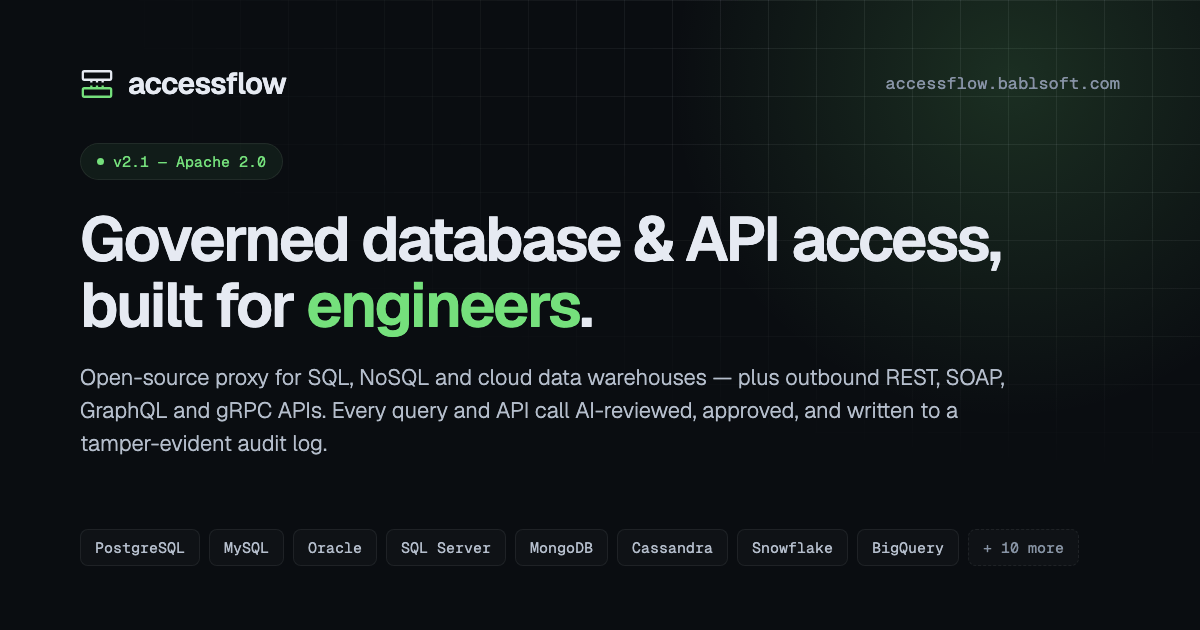
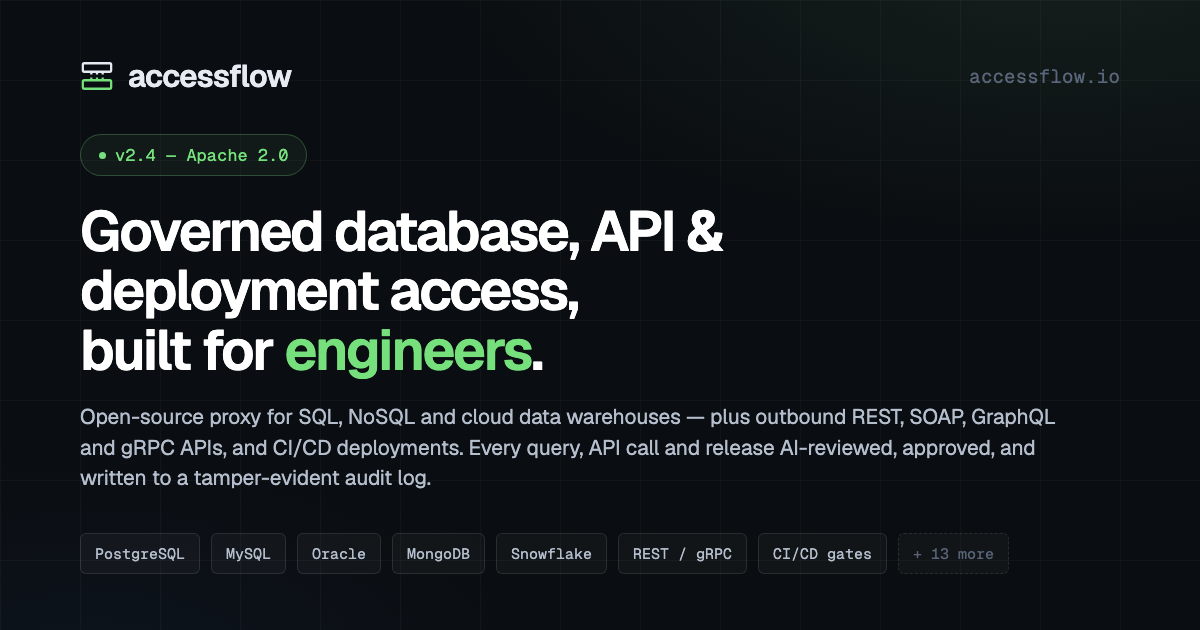
chore: pitch deployment governance as the third governed surface
Deployment Approval Governance (AF-682) shipped complete in v2.4 and
already has a feature card, a roadmap entry and a docs card, but every
top-of-page framing surface still pitched only 'database & API access'.

Hero: h1, subheadline and a new CI/CD row in the meta strip. Page-level
pitch: title, meta description + keywords, OG/Twitter title, description
and image alt, and a JSON-LD featureList entry. llms.txt gains the
capability paragraph and the docs/18 entry. Root README tagline follows.

og-image.png is re-cut per website/README.md: it was three releases stale,
still reading 'v2.1' and 'accessflow.bablsoft.com' after the domain
migration, alongside the old two-surface headline.

Leaves the architecture h2 alone — that section is about the
credential-holding proxy, and the deployment gate is not one. Also folds
in two adjacent drift fixes on lines already being edited: the hero engine
strip was missing ClickHouse (17 listed against 18 connector cards), and
the docs heading said seventeen chapters against 18 doc cards.

diff --git a/website/index.html b/website/index.html
@@ -3,13 +3,13 @@
 <head>
   <meta charset="utf-8" />
   <meta name="viewport" content="width=device-width, initial-scale=1" />
-  <title>AccessFlow — Open-source database &amp; API access governance</title>
-  <meta name="description" content="Open-source database &amp; API access governance. Every query and API call goes through AI review, approval workflows, and a tamper-evident audit log. Apache 2.0." />
+  <title>AccessFlow — Open-source database, API &amp; deployment access governance</title>
+  <meta name="description" content="Open-source database, API &amp; deployment access governance. Every query, API call and CI/CD release goes through AI review, approval workflows, and a tamper-evident audit log. Apache 2.0." />
 
   <link rel="canonical" href="https://accessflow.io/" />
   <meta name="robots" content="index, follow" />
   <meta name="author" content="bablsoft" />
-  <meta name="keywords" content="database access governance, API access governance, SQL and NoSQL proxy, REST SOAP GraphQL gRPC proxy, query approval workflow, API call approval workflow, tamper-evident audit log, open source, PostgreSQL, MySQL, MariaDB, Oracle, SQL Server, ClickHouse, MongoDB, Couchbase, Redis, Cassandra, ScyllaDB, Elasticsearch, OpenSearch, Neo4j, DynamoDB, Snowflake, BigQuery, Databricks, AI query review, Apache 2.0" />
+  <meta name="keywords" content="database access governance, API access governance, SQL and NoSQL proxy, REST SOAP GraphQL gRPC proxy, query approval workflow, API call approval workflow, deployment approval governance, CI/CD deployment gate, deployment freeze window, tamper-evident audit log, open source, PostgreSQL, MySQL, MariaDB, Oracle, SQL Server, ClickHouse, MongoDB, Couchbase, Redis, Cassandra, ScyllaDB, Elasticsearch, OpenSearch, Neo4j, DynamoDB, Snowflake, BigQuery, Databricks, AI query review, Apache 2.0" />
   <meta name="theme-color" content="#0A0D11" />
   <meta name="color-scheme" content="dark light" />
 
@@ -28,20 +28,20 @@
   <meta property="og:type" content="website" />
   <meta property="og:site_name" content="AccessFlow" />
   <meta property="og:locale" content="en_US" />
-  <meta property="og:title" content="AccessFlow — Open-source database &amp; API access governance" />
-  <meta property="og:description" content="Open-source access proxy for SQL and NoSQL databases and cloud data warehouses — Postgres, MySQL, Oracle, SQL Server, MongoDB, Cassandra, Elasticsearch, Neo4j, Snowflake, BigQuery, Databricks, and more — plus outbound REST, SOAP, GraphQL, and gRPC APIs. AI-reviewed queries and API calls, configurable approval workflows, tamper-evident audit log — Apache 2.0." />
+  <meta property="og:title" content="AccessFlow — Open-source database, API &amp; deployment access governance" />
+  <meta property="og:description" content="Open-source access proxy for SQL and NoSQL databases and cloud data warehouses — Postgres, MySQL, Oracle, SQL Server, MongoDB, Cassandra, Elasticsearch, Neo4j, Snowflake, BigQuery, Databricks, and more — plus outbound REST, SOAP, GraphQL, and gRPC APIs, and CI/CD deployments. AI-reviewed queries, API calls and releases, configurable approval workflows, tamper-evident audit log — Apache 2.0." />
   <meta property="og:url" content="https://accessflow.io/" />
   <meta property="og:image" content="https://accessflow.io/og-image.png" />
   <meta property="og:image:type" content="image/png" />
   <meta property="og:image:width" content="1200" />
   <meta property="og:image:height" content="630" />
-  <meta property="og:image:alt" content="AccessFlow — governed database &amp; API access, built for engineers. Open-source SQL, NoSQL &amp; API proxy with AI review and approval workflows." />
+  <meta property="og:image:alt" content="AccessFlow — governed database, API &amp; deployment access, built for engineers. Open-source SQL, NoSQL &amp; API proxy with AI review and approval workflows." />
 
   <meta name="twitter:card" content="summary_large_image" />
-  <meta name="twitter:title" content="AccessFlow — Open-source database &amp; API access governance" />
-  <meta name="twitter:description" content="Open-source access proxy for SQL and NoSQL databases and cloud data warehouses — Postgres, MySQL, Oracle, SQL Server, MongoDB, Cassandra, Elasticsearch, Neo4j, Snowflake, BigQuery, Databricks, and more — plus outbound REST, SOAP, GraphQL, and gRPC APIs. AI-reviewed queries and API calls, configurable approval workflows, tamper-evident audit log — Apache 2.0." />
+  <meta name="twitter:title" content="AccessFlow — Open-source database, API &amp; deployment access governance" />
+  <meta name="twitter:description" content="Open-source access proxy for SQL and NoSQL databases and cloud data warehouses — Postgres, MySQL, Oracle, SQL Server, MongoDB, Cassandra, Elasticsearch, Neo4j, Snowflake, BigQuery, Databricks, and more — plus outbound REST, SOAP, GraphQL, and gRPC APIs, and CI/CD deployments. AI-reviewed queries, API calls and releases, configurable approval workflows, tamper-evident audit log — Apache 2.0." />
   <meta name="twitter:image" content="https://accessflow.io/og-image.png" />
-  <meta name="twitter:image:alt" content="AccessFlow — governed database &amp; API access, built for engineers. Open-source SQL, NoSQL &amp; API proxy with AI review and approval workflows." />
+  <meta name="twitter:image:alt" content="AccessFlow — governed database, API &amp; deployment access, built for engineers. Open-source SQL, NoSQL &amp; API proxy with AI review and approval workflows." />
 
   <link rel="preload" href="/fonts/geist-latin.woff2" as="font" type="font/woff2" crossorigin />
 
@@ -85,6 +85,7 @@
           "Cloud-native deploy via Docker Compose and Helm",
           "Infrastructure as Code with a Terraform / OpenTofu provider",
           "API access governance for REST, SOAP, GraphQL and gRPC",
+          "Deployment approval governance with CI/CD gates, freeze windows and break-glass",
           "Data lifecycle — retention, right-to-erasure and pseudonymization",
           "Request chaining and grouping"
         ],
@@ -223,7 +224,7 @@
             generally available — Apache 2.0 licensed
           </span>
           <h1>
-            Governed database &amp; API access,<br />
+            Governed database, API &amp; deployment access,<br />
             built for <span class="underline">engineers</span>.
           </h1>
           <p class="hero-sub">
@@ -231,7 +232,10 @@
             REST, SOAP, GraphQL, and gRPC APIs — that sits between your team and your data. Every query
             and every API call is checked, sorted by type, optionally AI-reviewed, and routed through a
             configurable human-approval workflow before it touches production — with a tamper-evident
-            metadata audit trail of every decision.
+            metadata audit trail of every decision. The same review machinery gates your
+            <b>CI/CD deployments</b>: a pipeline asks for permission to release and blocks on a
+            fail-closed approval gate, with freeze windows, scheduled releases, audited break-glass
+            and post-deploy outcome tracking.
           </p>
           <div class="hero-cta">
             <a href="#install" class="btn btn-primary">
@@ -243,7 +247,8 @@
             </a>
           </div>
           <div class="hero-meta">
-            <span><b>PostgreSQL</b> · <b>MySQL</b> · <b>MariaDB</b> · <b>Oracle</b> · <b>MSSQL</b> · <b>MongoDB</b> · <b>Couchbase</b> · <b>Redis</b> · <b>Cassandra</b> · <b>ScyllaDB</b> · <b>Elasticsearch</b> · <b>OpenSearch</b> · <b>DynamoDB</b> · <b>Neo4j</b> · <b>Snowflake</b> · <b>BigQuery</b> · <b>Databricks</b></span>
+            <span><b>PostgreSQL</b> · <b>MySQL</b> · <b>MariaDB</b> · <b>Oracle</b> · <b>MSSQL</b> · <b>ClickHouse</b> · <b>MongoDB</b> · <b>Couchbase</b> · <b>Redis</b> · <b>Cassandra</b> · <b>ScyllaDB</b> · <b>Elasticsearch</b> · <b>OpenSearch</b> · <b>DynamoDB</b> · <b>Neo4j</b> · <b>Snowflake</b> · <b>BigQuery</b> · <b>Databricks</b></span>
+            <span>CI/CD gates · <b>GitHub Actions</b> · <b>GitLab CI</b> · <b>Azure Pipelines</b> · <b>Jenkins</b></span>
             <span>Self-hosted · <b>SAML</b> · <b>OAuth</b> · <b>TOTP</b></span>
             <span>Anthropic · OpenAI · Ollama · OpenAI-compatible · Hugging Face</span>
           </div>
@@ -1416,7 +1421,7 @@
       <div class="wrap">
         <div class="section-head">
           <span class="eyebrow">Documentation</span>
-          <h2>AccessFlow documentation — seventeen chapters, read them in any order.</h2>
+          <h2>AccessFlow documentation — eighteen chapters, read them in any order.</h2>
           <p>Every subsystem is documented — architecture diagrams, schemas, payload examples, deployment recipes, and security model. Open source in the same repo. New here? The <a href="docs/">run &amp; configure guide</a> walks you through installing AccessFlow and setting it up step by step.</p>
         </div>
         <div class="docs-grid">

diff --git a/README.md b/README.md
@@ -5,8 +5,8 @@
 <h1 align="center">AccessFlow</h1>
 
 <p align="center">
-  <strong>Open-source database &amp; API access governance platform</strong><br>
-  A SQL, NoSQL, and API proxy that puts review, approval, and audit between your team and production data and services.
+  <strong>Open-source database, API &amp; deployment access governance platform</strong><br>
+  A SQL, NoSQL, and API proxy — plus a CI/CD deployment gate — that puts review, approval, and audit between your team and production data, services, and releases.
 </p>
 
 <p align="center">
